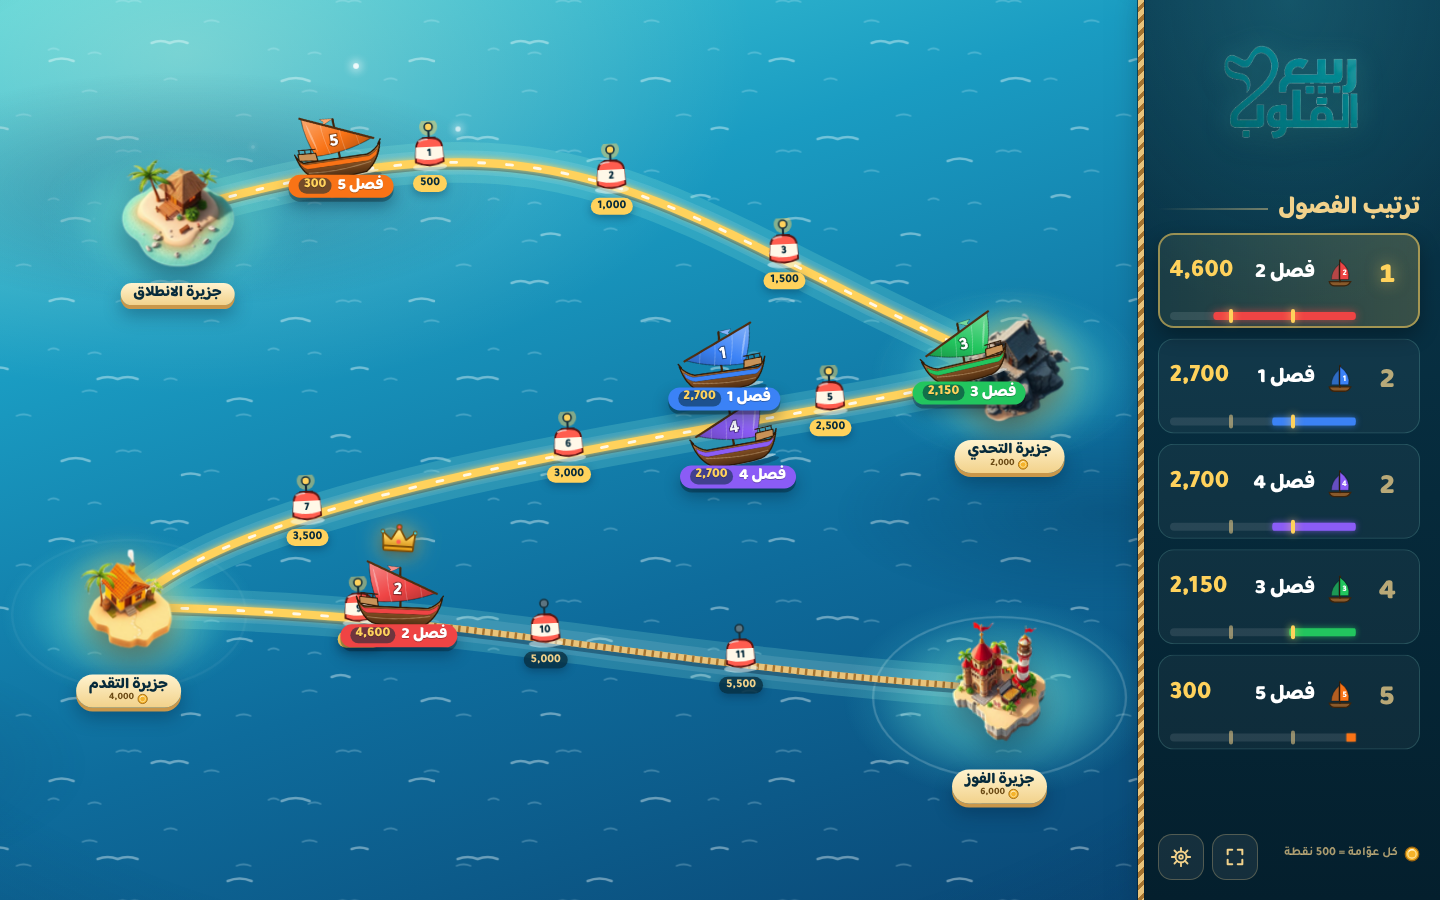
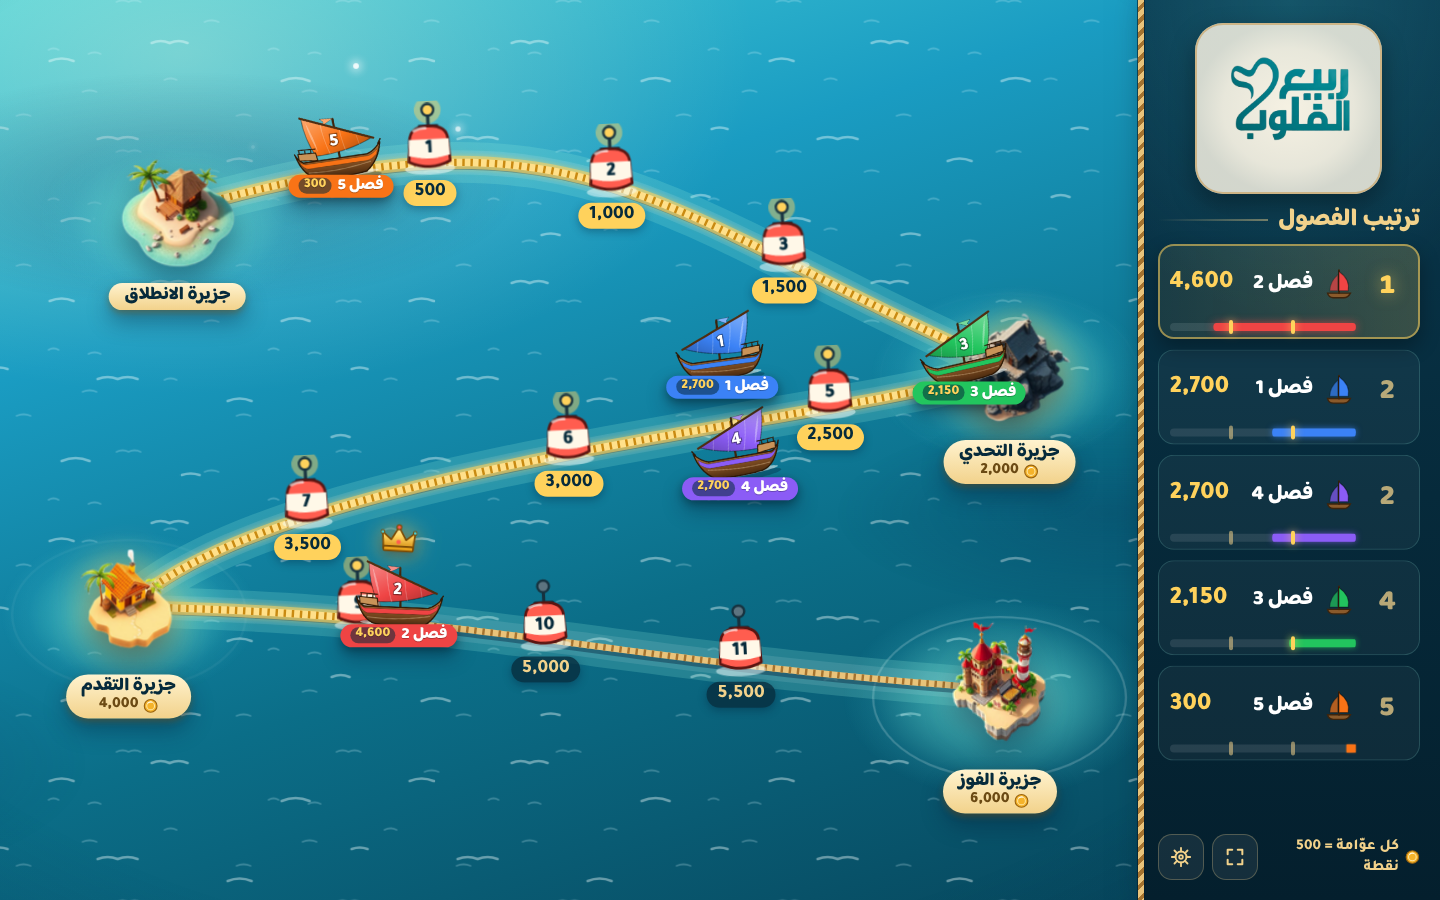
Race board: apply design review fixes
- Larger, readable buoys and island point values for projector distance
- Tied ships fan out clear of each other's tags; buoy values hide under ships
- Travelled route drawn as a gilded rope instead of a dashed road
- Broad foam wake and visible spray while sailing
- Ship tag and leaderboard share one tweened score readout
- Blurred shadows replace hard offset lips; logo sits on a light plaque
- Deeper teal sea tones; class pill moved below the announced points

Claude-Session: https://claude.ai/code/session_013FXoUf8u27BLRddh6j5zrs

diff --git a/src/pages/display/display.css b/src/pages/display/display.css
@@ -4,8 +4,8 @@
 :root {
   --sea-shallow: #46cfd9;
   --sea-mid: #1a9cc2;
-  --sea-deep: #0e6c9c;
-  --sea-abyss: #0a4775;
+  --sea-deep: #0b6e88;
+  --sea-abyss: #07485e;
   --lagoon: #8ff0dd;
   --foam: #f4fffd;
   --sand: #f2d28b;
@@ -184,7 +184,7 @@ body.display-page ::selection {
   font-weight: 800;
   line-height: 1.1;
   white-space: nowrap;
-  box-shadow: 0 4px 0 var(--sand-deep), 0 10px 18px rgba(3, 30, 55, 0.35);
+  box-shadow: 0 3px 6px rgba(120, 80, 20, 0.45), 0 12px 22px rgba(3, 30, 55, 0.38);
   text-align: center;
 }
 .rb-plate small {
@@ -193,8 +193,8 @@ body.display-page ::selection {
   justify-content: center;
   gap: 0.3em;
   font-family: var(--font-body);
-  font-weight: 800;
-  font-size: 0.66em;
+  font-weight: 900;
+  font-size: 0.86em;
   color: #6b4a14;
   font-variant-numeric: tabular-nums;
 }
@@ -240,6 +240,12 @@ body.display-page ::selection {
   line-height: 1.25;
   box-shadow: 0 3px 8px rgba(3, 30, 55, 0.35);
 }
+.rb-buoy-value {
+  transition: opacity 300ms ease;
+}
+.rb-buoy--occupied .rb-buoy-value {
+  opacity: 0;
+}
 .rb-buoy--lit .rb-buoy-value {
   background: var(--gold);
   color: var(--ink);
@@ -247,10 +253,10 @@ body.display-page ::selection {
 
 /* traveled-route flow */
 .rb-route-flow {
-  animation: rb-flow 1.6s linear infinite;
+  animation: rb-flow 1.2s linear infinite;
 }
 @keyframes rb-flow {
-  to { stroke-dashoffset: -28; }
+  to { stroke-dashoffset: var(--rb-flow, -30px); }
 }
 
 /* ── Ships ── */
@@ -301,11 +307,11 @@ body.display-page ::selection {
   opacity: 1;
 }
 .rb-wake-line {
-  stroke-dasharray: 10 8;
+  stroke-dasharray: 18 10;
   animation: rb-wake 0.7s linear infinite;
 }
 @keyframes rb-wake {
-  to { stroke-dashoffset: 18; }
+  to { stroke-dashoffset: 28; }
 }
 .rb-spray {
   animation: rb-spray 0.9s ease-out infinite;
@@ -331,7 +337,7 @@ body.display-page ::selection {
   font-weight: 800;
   line-height: 1.15;
   white-space: nowrap;
-  box-shadow: 0 4px 0 rgba(0, 0, 0, 0.28), 0 8px 16px rgba(3, 30, 55, 0.4);
+  box-shadow: 0 3px 8px rgba(0, 0, 0, 0.32), 0 10px 20px rgba(3, 30, 55, 0.4);
   text-shadow: 0 1px 0 rgba(0, 0, 0, 0.25);
 }
 .rb-ship-tag b {
@@ -383,10 +389,13 @@ body.display-page ::selection {
 }
 .rb-logo {
   display: block;
-  width: clamp(120px, 11vw, 190px);
+  width: clamp(150px, 13vw, 230px);
   height: auto;
   margin: 0 auto clamp(10px, 1.4vh, 20px);
-  filter: drop-shadow(0 6px 12px rgba(0, 0, 0, 0.35)) drop-shadow(0 0 12px rgba(70, 207, 217, 0.35));
+  padding: clamp(10px, 1vw, 18px) clamp(18px, 1.6vw, 28px);
+  border-radius: 28px;
+  background: radial-gradient(closest-side, rgba(255, 248, 232, 0.96), rgba(255, 248, 232, 0.9) 70%, rgba(255, 248, 232, 0.82));
+  box-shadow: 0 10px 24px rgba(0, 0, 0, 0.35), inset 0 0 0 2px rgba(201, 151, 74, 0.55);
 }
 .rb-tally h2 {
   font-family: var(--font-display);
@@ -515,9 +524,9 @@ body.display-page ::selection {
   gap: 10px;
 }
 .rb-legend {
-  font-size: clamp(12px, 0.85vw, 15px);
-  font-weight: 700;
-  color: rgba(242, 210, 139, 0.7);
+  font-size: clamp(14px, 1.05vw, 20px);
+  font-weight: 800;
+  color: var(--sand);
   line-height: 1.4;
 }
 .rb-icon-btn {
@@ -564,18 +573,18 @@ body.display-page ::selection {
   font-size: clamp(20px, 1.7vw, 30px);
   color: var(--ink);
   background: linear-gradient(180deg, #ffe08a, var(--gold-hot));
-  box-shadow: 0 6px 0 #b77a12, 0 16px 34px rgba(3, 30, 55, 0.5);
+  box-shadow: 0 6px 14px rgba(150, 95, 10, 0.55), 0 16px 34px rgba(3, 30, 55, 0.5);
   cursor: pointer;
   transition: transform 160ms var(--ease-out), box-shadow 160ms var(--ease-out), filter 200ms ease;
   animation: rb-call 2s ease-in-out infinite;
 }
 .rb-move-btn:hover:not(:disabled) {
   transform: translateX(-50%) translateY(-2px);
-  box-shadow: 0 8px 0 #b77a12, 0 20px 40px rgba(3, 30, 55, 0.5);
+  box-shadow: 0 9px 18px rgba(150, 95, 10, 0.55), 0 20px 40px rgba(3, 30, 55, 0.5);
 }
 .rb-move-btn:active:not(:disabled) {
   transform: translateX(-50%) translateY(4px);
-  box-shadow: 0 2px 0 #b77a12, 0 10px 20px rgba(3, 30, 55, 0.5);
+  box-shadow: 0 2px 6px rgba(150, 95, 10, 0.55), 0 10px 20px rgba(3, 30, 55, 0.5);
 }
 .rb-move-btn:disabled {
   cursor: progress;
@@ -583,8 +592,8 @@ body.display-page ::selection {
   filter: saturate(0.4) brightness(0.85);
 }
 @keyframes rb-call {
-  0%, 100% { box-shadow: 0 6px 0 #b77a12, 0 16px 34px rgba(3, 30, 55, 0.5), 0 0 0 0 rgba(255, 210, 92, 0.55); }
-  50% { box-shadow: 0 6px 0 #b77a12, 0 16px 34px rgba(3, 30, 55, 0.5), 0 0 0 16px rgba(255, 210, 92, 0); }
+  0%, 100% { box-shadow: 0 6px 14px rgba(150, 95, 10, 0.55), 0 16px 34px rgba(3, 30, 55, 0.5), 0 0 0 0 rgba(255, 210, 92, 0.55); }
+  50% { box-shadow: 0 6px 14px rgba(150, 95, 10, 0.55), 0 16px 34px rgba(3, 30, 55, 0.5), 0 0 0 16px rgba(255, 210, 92, 0); }
 }
 
 /* ── Arrival banner ── */
@@ -687,6 +696,9 @@ body.display-page ::selection {
   from { opacity: 0; transform: translateY(40px) scale(0.9); filter: blur(10px); }
   to { opacity: 1; transform: none; filter: blur(0); }
 }
+.rb-ann-for {
+  margin-top: 0.5em;
+}
 .rb-ann-team {
   display: inline-flex;
   align-items: center;
@@ -698,17 +710,17 @@ body.display-page ::selection {
   font-family: var(--font-display);
   font-weight: 800;
   font-size: clamp(20px, 2vw, 34px);
-  box-shadow: 0 5px 0 rgba(0, 0, 0, 0.3);
+  box-shadow: 0 4px 10px rgba(0, 0, 0, 0.35);
   animation: rb-rise 600ms var(--ease-out) 260ms both;
 }
 .rb-ann-name {
   margin-top: 0.3em;
   font-family: var(--font-display);
   font-weight: 800;
-  font-size: clamp(48px, 7vw, 120px);
+  font-size: clamp(46px, 6vw, 108px);
   line-height: 1.1;
   color: #fff;
-  text-wrap: balance;
+  text-wrap: pretty;
   animation: rb-rise 700ms var(--ease-out) 360ms both;
 }
 .rb-ann-pts {
@@ -723,7 +735,7 @@ body.display-page ::selection {
   line-height: 1;
   color: var(--gold);
   font-variant-numeric: tabular-nums;
-  text-shadow: 0 0 40px rgba(255, 210, 92, 0.45), 0 6px 0 rgba(120, 75, 10, 0.55);
+  text-shadow: 0 0 40px rgba(255, 210, 92, 0.45), 0 6px 16px rgba(120, 75, 10, 0.6);
   animation: rb-pop 800ms var(--ease-out) 560ms both;
 }
 .rb-ann-pts .rb-ann-unit {

diff --git a/src/pages/DisplayPage.tsx b/src/pages/DisplayPage.tsx
@@ -12,7 +12,7 @@ import "@fontsource/tajawal/900.css";
 import "./display/display.css";
 import { SeaBackdrop } from "./display/SeaBackdrop.tsx";
 import { Dhow, DHOW_ANCHOR_X, DHOW_ANCHOR_Y, DHOW_VB_H, DHOW_VB_W } from "./display/Dhow.tsx";
-import { Leaderboard } from "./display/Leaderboard.tsx";
+import { Leaderboard, TweenedPoints } from "./display/Leaderboard.tsx";
 import { ArrivalCelebration, StudentAnnouncement, type ArrivalData } from "./display/Celebrations.tsx";
 import { AnchorIcon, CoinIcon, CrownIcon, FullscreenIcon, HelmIcon } from "./display/icons.tsx";
 
@@ -1992,7 +1992,7 @@ export default function DisplayPage() {
   const shipH = (shipW * DHOW_VB_H) / DHOW_VB_W;
   const shipAnchorX = (shipW * DHOW_ANCHOR_X) / DHOW_VB_W;
   const shipAnchorY = (shipW * DHOW_ANCHOR_Y) / DHOW_VB_W;
-  const buoySize = Math.round(Math.max(40, Math.min(66, 46 * k)));
+  const buoySize = Math.round(Math.max(56, Math.min(92, 72 * k)));
   const fullRouteD = routePathD(boardSize, TOTAL_POSITIONS - 1);
   const leaderRouteD = routePathD(boardSize, leaderPosition);
 
@@ -2017,7 +2017,7 @@ export default function DisplayPage() {
     });
     groups.forEach((g) => {
       if (g.length < 2) return;
-      const spacing = shipW * (g.length > 3 ? 0.72 : 0.86);
+      const spacing = shipW * (g.length > 3 ? 0.92 : 1.12);
       const ordered = [...g].sort((a, b) => compareTeamsBySlot(a.team, b.team));
       ordered.forEach((s, j) => {
         let nx = -s.tan.y;
@@ -2206,15 +2206,16 @@ export default function DisplayPage() {
             <path d={fullRouteD} fill="none" stroke="var(--rope-dark)" strokeWidth={8 * k} strokeDasharray={`${3 * k} ${7 * k}`} />
             {leaderRouteD && (
               <>
-                <path d={leaderRouteD} fill="none" stroke="var(--gold)" strokeWidth={10 * k} strokeLinecap="round" filter="url(#rb-route-glow)" />
+                <path d={leaderRouteD} fill="none" stroke="rgba(255,210,92,0.55)" strokeWidth={16 * k} strokeLinecap="round" filter="url(#rb-route-glow)" />
+                <path d={leaderRouteD} fill="none" stroke="#ffe08a" strokeWidth={9 * k} strokeLinecap="round" />
                 <path
                   className="rb-route-flow"
                   d={leaderRouteD}
                   fill="none"
-                  stroke="rgba(255,255,255,0.85)"
-                  strokeWidth={3.5 * k}
-                  strokeLinecap="round"
-                  strokeDasharray="6 22"
+                  stroke="#c98a12"
+                  strokeWidth={9 * k}
+                  strokeDasharray={`${3 * k} ${7 * k}`}
+                  style={{ ["--rb-flow" as string]: `${-10 * k * 3}px` }}
                 />
               </>
             )}
@@ -2225,10 +2226,11 @@ export default function DisplayPage() {
             if (ISLAND_INDICES.includes(i)) return null;
             const p = boardPoint(pos, boardSize);
             const lit = leaderPosition >= i - POSITION_EPSILON;
+            const occupied = shipLayouts.some((sl) => Math.abs(sl.boardIndex - i) < 0.4);
             return (
               <div
                 key={`buoy-${i}`}
-                className={`rb-buoy${lit ? " rb-buoy--lit" : ""}`}
+                className={`rb-buoy${lit ? " rb-buoy--lit" : ""}${occupied ? " rb-buoy--occupied" : ""}`}
                 style={{
                   transform: `translate(${p.x - buoySize / 2}px, ${p.y - buoySize * 1.05}px)`,
                   width: buoySize,
@@ -2242,11 +2244,11 @@ export default function DisplayPage() {
                   <path d="M7 27 Q7 17 20 17 Q33 17 33 27 L34 41 Q20 48 6 41 Z" fill="var(--coral)" stroke="#5a1410" strokeWidth="1.8" strokeLinejoin="round" />
                   <path d="M6.6 26 L33.4 26 L33.9 37 Q20 41 6.1 37 Z" fill="#fff8e8" />
                   <path d="M10 20 Q14 18 18 18.4" stroke="rgba(255,255,255,0.65)" strokeWidth="1.8" fill="none" strokeLinecap="round" />
-                  <text x="20" y="35.2" textAnchor="middle" fontSize="11.5" fontWeight="900" fontFamily="Tajawal, sans-serif" fill="#062a3b">
+                  <text x="20" y="35.2" textAnchor="middle" fontSize="13.5" fontWeight="900" fontFamily="Tajawal, sans-serif" fill="#062a3b">
                     {i}
                   </text>
                 </svg>
-                <div className="rb-buoy-value" style={{ fontSize: Math.round(buoySize * 0.3) }}>
+                <div className="rb-buoy-value" style={{ fontSize: Math.round(buoySize * 0.32) }}>
                   {formatPoints(POINTS_PER_SQUARE * i)}
                 </div>
               </div>
@@ -2274,11 +2276,11 @@ export default function DisplayPage() {
                   alt=""
                   style={{ width: size, height: size, animationDelay: `${islandIdx * -1.7}s` }}
                 />
-                <div className="rb-plate" style={{ fontSize: Math.round(19 * k) }}>
+                <div className="rb-plate" style={{ fontSize: Math.round(22 * k) }}>
                   {ISLAND_NAMES[islandIdx]}
                   {islandIdx > 0 && (
                     <small>
-                      <CoinIcon size={Math.round(13 * k)} />
+                      <CoinIcon size={Math.round(18 * k)} />
                       {formatPoints(POINTS_PER_SQUARE * islandSquare)}
                     </small>
                   )}
@@ -2360,7 +2362,9 @@ export default function DisplayPage() {
                   style={{ background: color, fontSize: Math.round(shipW * 0.17), top: shipW * 0.09 }}
                 >
                   {displayName(team)}
-                  <b>{formatPoints(effectivePts)}</b>
+                  <b>
+                    <TweenedPoints value={effectivePts} />
+                  </b>
                 </div>
               </div>
             );

diff --git a/src/pages/display/Dhow.tsx b/src/pages/display/Dhow.tsx
@@ -59,26 +59,27 @@ export function Dhow({
 
       {/* wake: trails astern (to the left) while sailing */}
       <g className="rb-wake">
+        <path d="M 26 94 L -70 70 L -70 118 Z" fill="rgba(244,255,253,0.18)" />
         <path
           className="rb-wake-line"
-          d="M 22 92 Q -14 86 -62 76"
-          stroke="rgba(244,255,253,0.85)"
-          strokeWidth="4"
+          d="M 22 92 Q -14 86 -70 70"
+          stroke="rgba(244,255,253,0.95)"
+          strokeWidth="9"
           strokeLinecap="round"
           fill="none"
         />
         <path
           className="rb-wake-line"
-          d="M 22 96 Q -14 104 -62 114"
-          stroke="rgba(244,255,253,0.85)"
-          strokeWidth="4"
+          d="M 22 96 Q -14 104 -70 118"
+          stroke="rgba(244,255,253,0.95)"
+          strokeWidth="9"
           strokeLinecap="round"
           fill="none"
         />
-        <path d="M 30 94 Q -6 94 -44 95" stroke="rgba(244,255,253,0.35)" strokeWidth="10" strokeLinecap="round" fill="none" />
-        <circle className="rb-spray" cx="134" cy="84" r="3.2" fill="#fff" />
-        <circle className="rb-spray" cx="138" cy="88" r="2.4" fill="#fff" style={{ animationDelay: "0.3s" }} />
-        <circle className="rb-spray" cx="130" cy="80" r="2" fill="#fff" style={{ animationDelay: "0.6s" }} />
+        <path d="M 30 94 Q -6 94 -44 95" stroke="rgba(244,255,253,0.55)" strokeWidth="18" strokeLinecap="round" fill="none" />
+        <circle className="rb-spray" cx="134" cy="84" r="5.5" fill="#fff" />
+        <circle className="rb-spray" cx="140" cy="90" r="4.5" fill="#fff" style={{ animationDelay: "0.3s" }} />
+        <circle className="rb-spray" cx="128" cy="80" r="4" fill="#fff" style={{ animationDelay: "0.6s" }} />
       </g>
 
       {/* shadow and foam at the waterline */}

diff --git a/src/pages/display/Leaderboard.tsx b/src/pages/display/Leaderboard.tsx
@@ -10,7 +10,7 @@ export interface TallyEntry {
   points: number;
 }
 
-function TallyPoints({ value }: { value: number }) {
+export function TweenedPoints({ value }: { value: number }) {
   const shown = useTweenedNumber(value);
   return <>{Math.round(shown).toLocaleString("en-US")}</>;
 }
@@ -69,10 +69,10 @@ export function Leaderboard({
               }}
             >
               <div className="rb-rank">{rank}</div>
-              <SailChip color={e.color} size={30} label={e.slot} />
+              <SailChip color={e.color} size={32} />
               <div className="rb-row-name">{e.name}</div>
               <div className="rb-row-pts">
-                <TallyPoints value={e.points} />
+                <TweenedPoints value={e.points} />
               </div>
               <div className="rb-track" aria-hidden="true">
                 <div className="rb-track-fill" style={{ transform: `scaleX(${pct / 100})` }} />

diff --git a/src/pages/display/Celebrations.tsx b/src/pages/display/Celebrations.tsx
@@ -138,10 +138,6 @@ export function StudentAnnouncement({
     <div className="rb-ann" style={{ ["--team" as string]: teamColor }} role="status">
       <ConfettiRain color={teamColor} count={56} />
       <div className="rb-ann-card">
-        <div className="rb-ann-team">
-          <SailChip color="#ffffff" size={34} />
-          {teamName}
-        </div>
         <div className="rb-ann-name">{studentName}</div>
         {replay ? (
           <div className="rb-ann-pts rb-ann-pts--replay">إعادة عرض</div>
@@ -153,6 +149,12 @@ export function StudentAnnouncement({
             <span className="rb-ann-unit">نقطة</span>
           </div>
         )}
+        <div className="rb-ann-for">
+          <span className="rb-ann-team">
+            <SailChip color="#ffffff" size={34} />
+            {teamName}
+          </span>
+        </div>
       </div>
     </div>
   );
